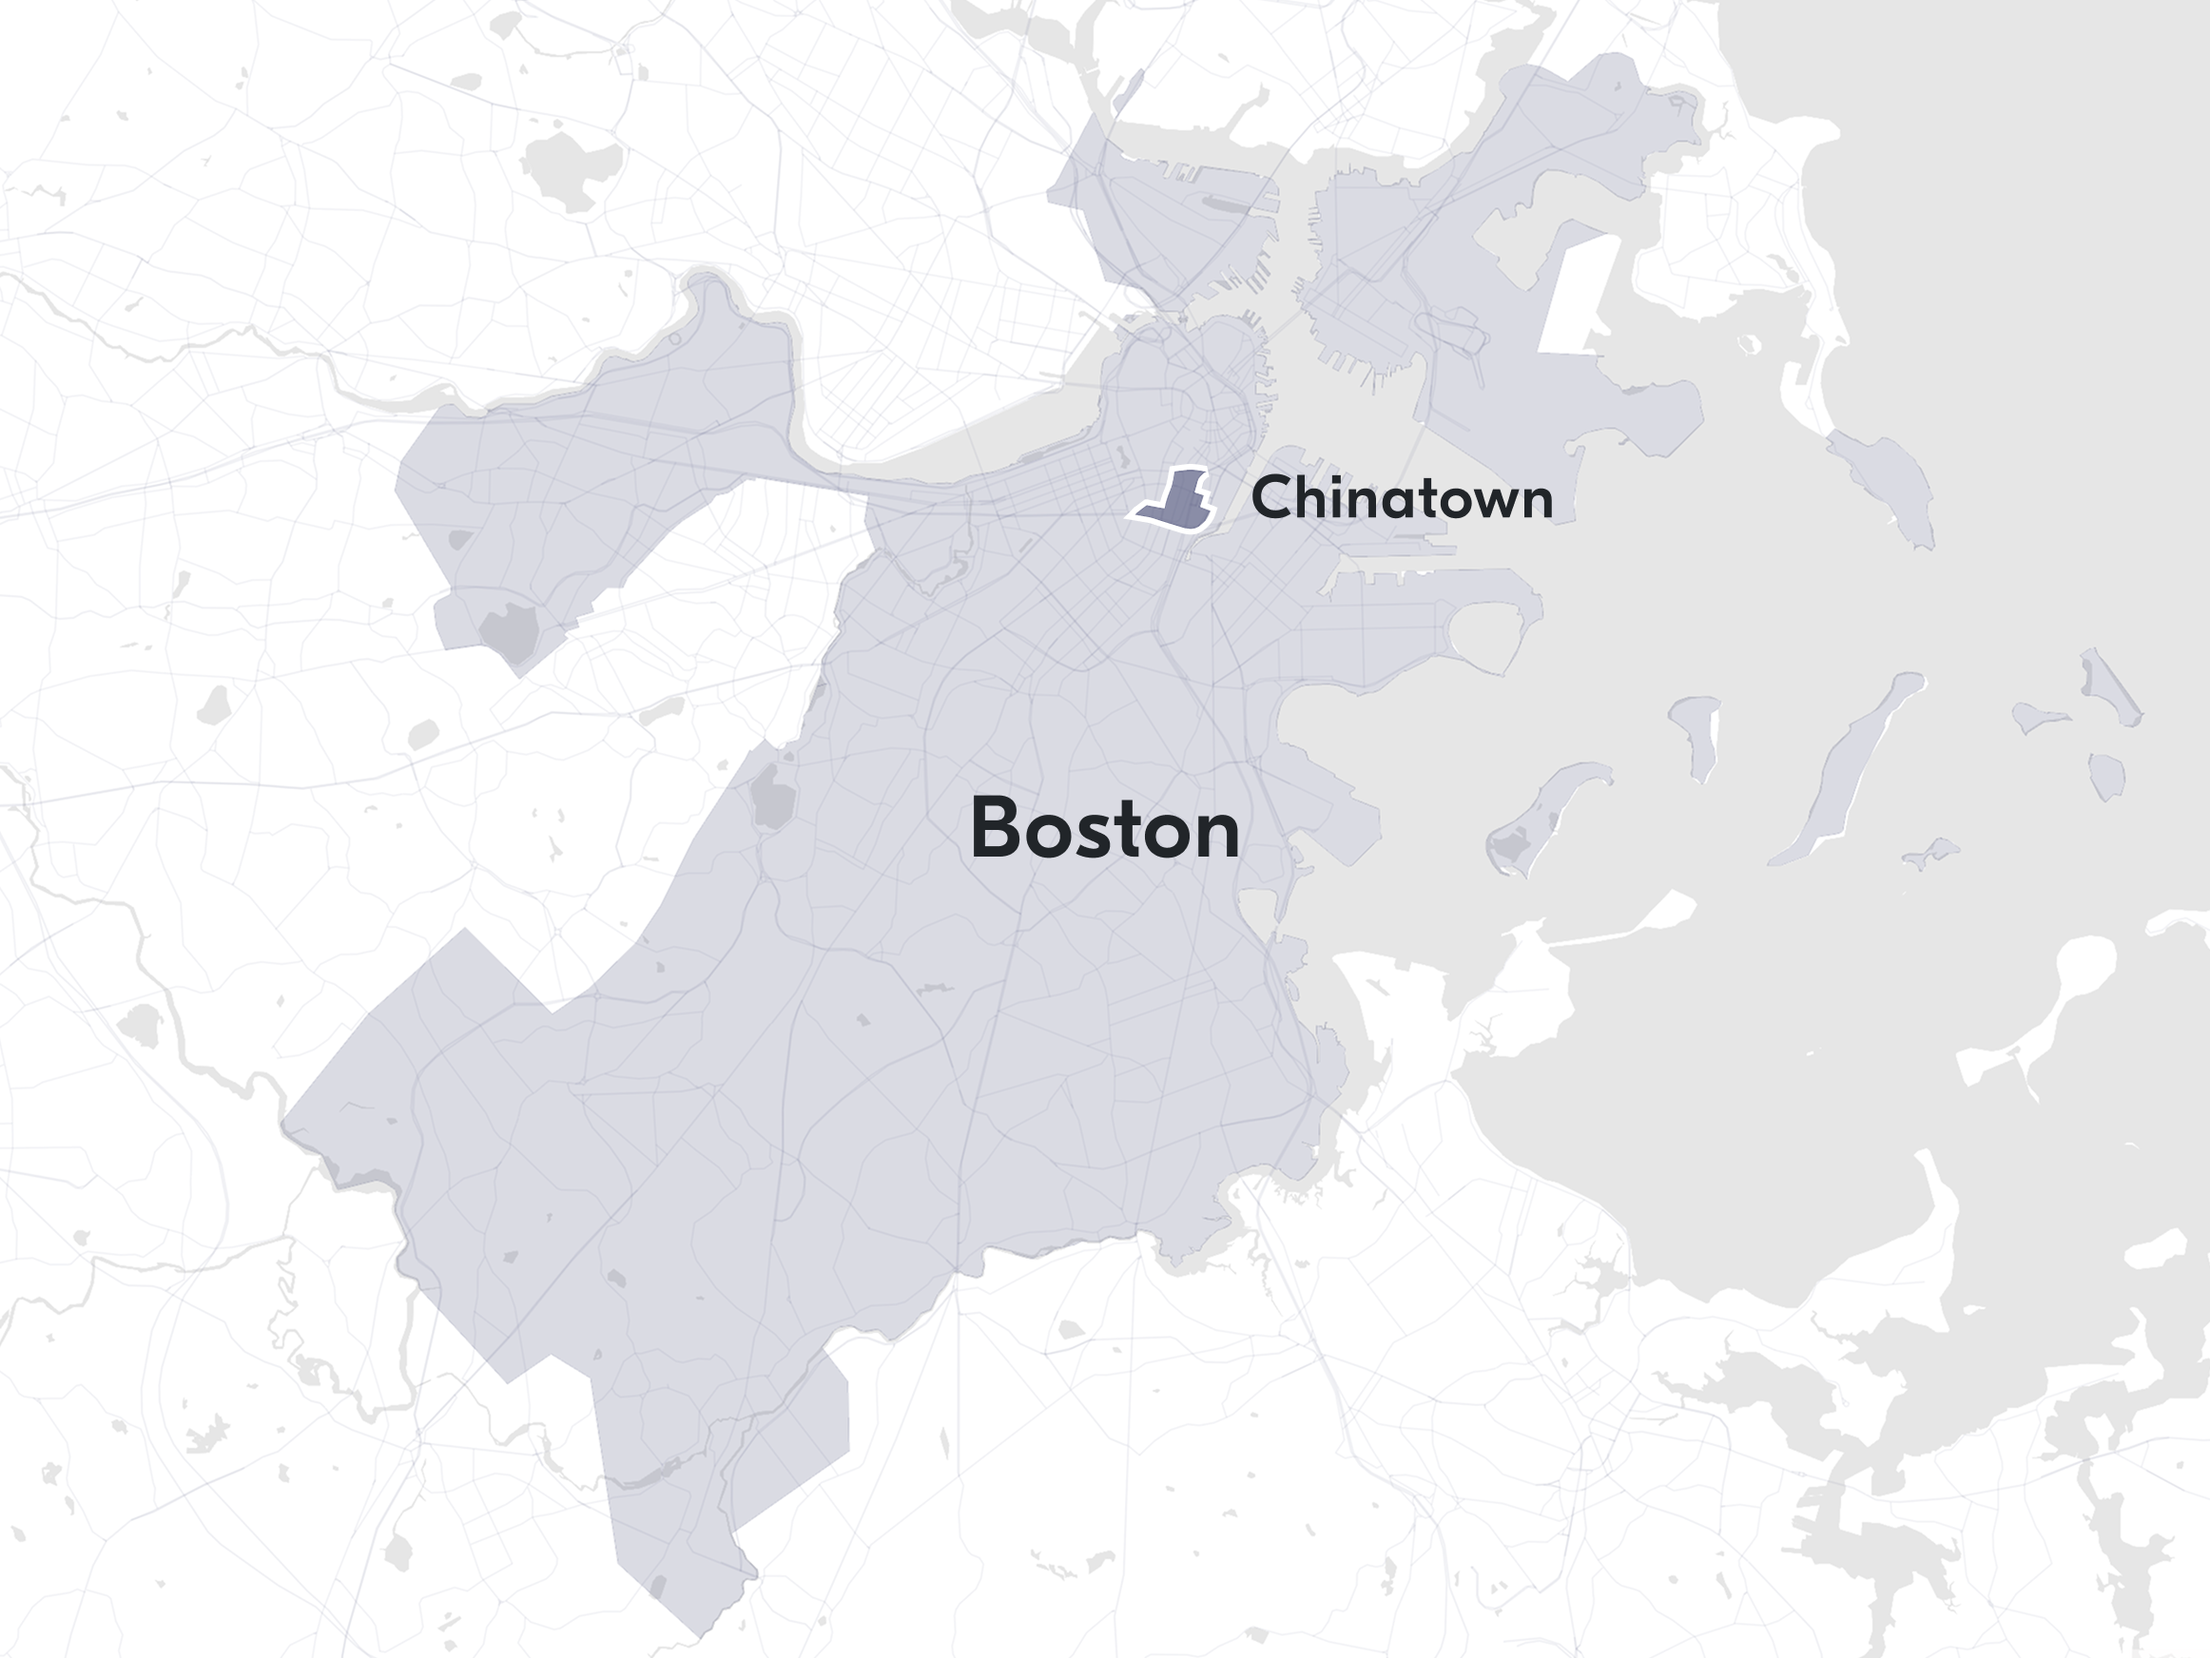
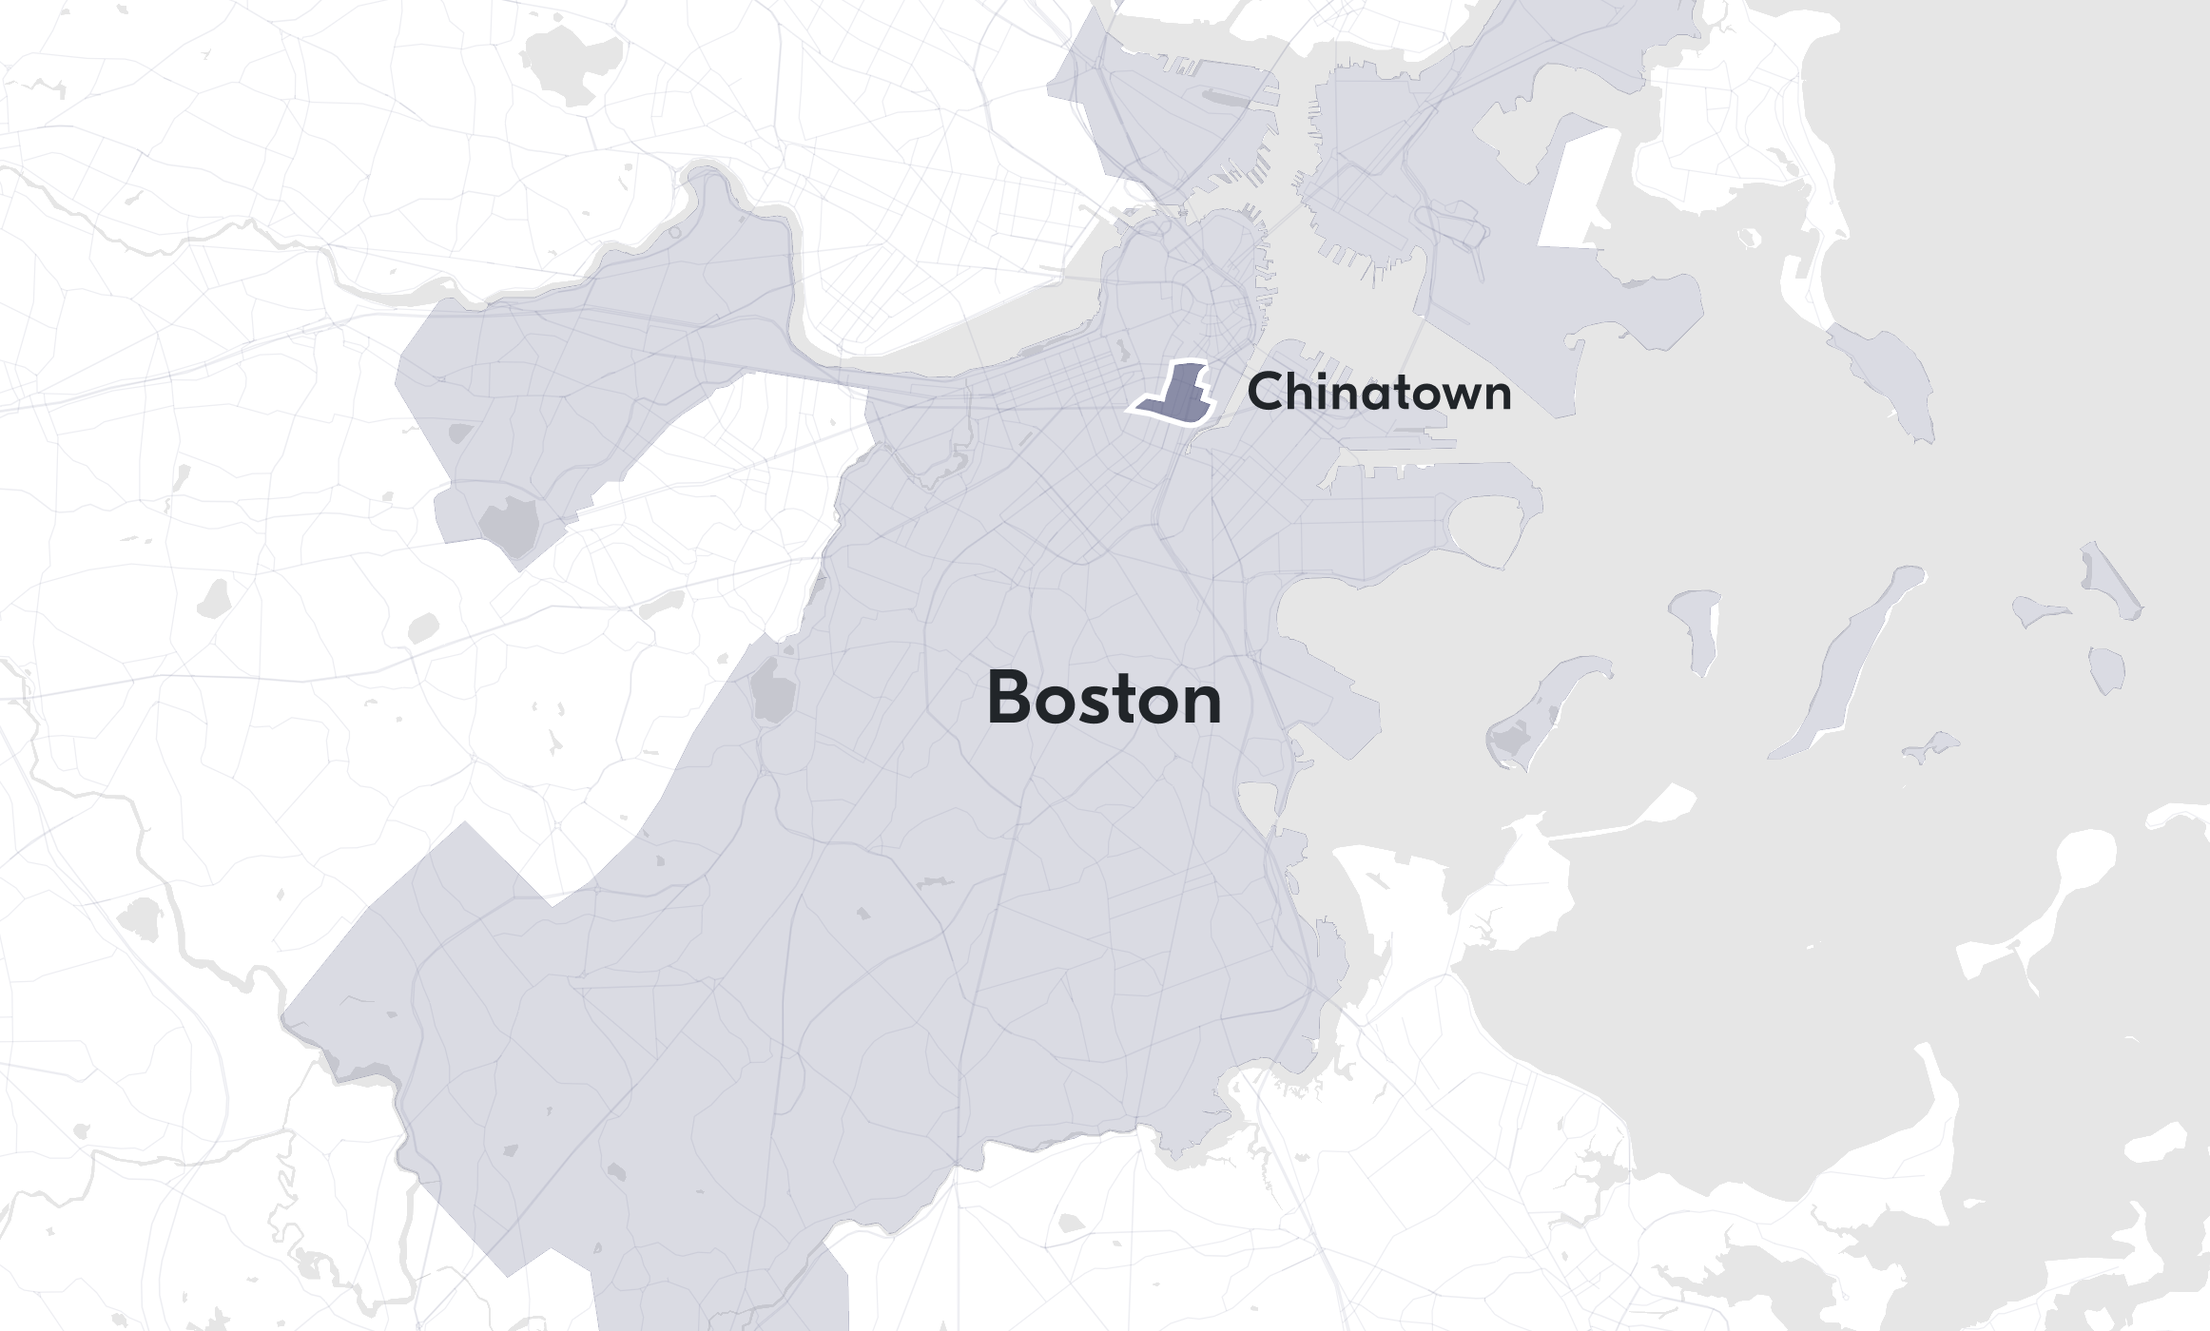
Chore(blog): add images, update styles

diff --git a/content/updates/research/beyond-eviction/index.md b/content/updates/research/beyond-eviction/index.md
@@ -8,15 +8,15 @@ contentcat: research
 featured: true
 in_index: true
 title: "Beyond eviction: Landlords, community, and housing exploitation in two immigrant Neighborhoods"
-date: 2026-10-31T18:49:04.271Z
+date: 2026-11-15T18:49:04.271Z
 postauthorname: The Eviction Lab
 postauthortitle: Princeton University
 authorpic: /images/bios/elab_thumb_sm.jpg
 description: lorem ipsum
 listSummary: lorem ipsum
-twImage: dallas-data-update.jpg
-image: dallas-data-update.jpg
-fbImage: dallas-data-update.jpg
+twImage: beyond-eviction.jpg
+image: beyond-eviction.jpg
+fbImage: beyond-eviction.jpg
 ---
 <style>
   .visual--mapbox {
@@ -29,7 +29,7 @@ ccounting for {{< smartlink "one-fifth of America's renters" "https://data.censu
 
 In a research article published in the journal {{< smartlink "City and Community" "https://journals.sagepub.com/doi/full/10.1177/15356841261452619#sec-5" >}}, we take a closer look at the neighborhoods where immigrants live and have historically depended on for support. Analyzing data between 2012 and 2016, we find that poor immigrant neighborhoods nationwide have an eviction rate 26 percent lower than similar non-immigrant neighborhoods. This is surprising because earlier research has shown that evictions are generally high in neighborhoods with concentrated {{< smartlink "disadvantage" "https://www.sciencedirect.com/science/article/pii/S0049089X16300977" >}} and {{< smartlink "poverty" "https://journals.sagepub.com/doi/full/10.1111/cico.12487" >}}, characteristics common in these communities. 
 
-[LINK TO PAPER]
+{{< researchpaperlink "Profit or Protection? Evictions and Housing Dynamics in Immigrant Neighborhoods" "https://journals.sagepub.com/doi/10.1177/15356841261452619?int.sj-abstract.similar-articles.8" "Lillian Leung, Renee Louis, Jasmine Rangel, and Matthew Desmond" "ctya_25_3.cover.png" >}}
 
 To understand what is behind this pattern, we visited two immigrant neighborhoods—Gulfton in Houston and Chinatown in Boston—and spoke with ninety renters, landlords, and community members about their housing experience. While low rents (and flexibility from property managers) partially explain low eviction rates in each neighborhood, these conditions result from very different housing dynamics. Immigrant renters in Gulfton maintain low rents by making trade-offs in housing conditions, while residents in Chinatown benefit from housing that co-ethnic landlords and community organizations have kept relatively affordable.
 
@@ -37,10 +37,10 @@ To understand what is behind this pattern, we visited two immigrant neighborhood
 <style>
   .bar-table-wrap { width: 100%; }
   .bar-table { width: 100%; border-collapse: collapse; margin: 2em 0 0.5em; font-family: inherit; }
-  .bar-table th { font-size: 1.6rem; font-weight: 500; text-align: left; vertical-align: bottom; padding: 0 1.2rem 1.2rem 0; color: #5a6270; line-height: 1.35; border-bottom: 2px solid #212529; }
+  .bar-table th { font-size: 1.6rem; font-weight: 500; text-align: left; vertical-align: bottom; padding: 0 1.2rem 1.2rem 0; color: #5a6270; line-height: 1.35; border-bottom: 2px solid #212529; font-family: GT-Eesti-Display-Medium, sans-serif; }
   .bar-table td { padding: 1rem 1.2rem 1rem 0; font-size: 1.8rem; color: #5a6270; white-space: nowrap; }
   .bar-table td.city { font-family: GT-Eesti-Display-Medium, sans-serif; font-size: 2rem; color: #212529; padding-top: 2.4rem; }
-  .bar-table td.area { padding-left: 2rem; white-space: normal; }
+  .bar-table td.area { padding-left: 2rem; white-space: normal; font-family: GT-Eesti-Display-Medium, sans-serif; }
   .bar-table tr.hl td .val { color: #212529; font-weight: 700; }
   .bar-table tr.group-end td { border-bottom: 1px solid #d5d8dc; padding-bottom: 32px; }
   .bar-table tfoot td { border-top: 2px solid #212529; font-size: 1.4rem; white-space: normal; padding-top: 1.2rem; }
@@ -48,7 +48,10 @@ To understand what is behind this pattern, we visited two immigrant neighborhood
   .bar-table .bar { display: inline-block; vertical-align: middle; width: 6rem; height: 1rem; border-radius: 3px; background: #EEF0F2; overflow: hidden; }
   .bar-table .bar i { display: block; height: 100%; border-radius: 3px; background: #9ea7b0; }
   .bar-table tr.hl .bar i { background: #e24000; }
+  .bar-table span.val { font-family: "Gotham A", "Gotham B", sans-serif; }
   @media (max-width: 767px) { .bar-table-wrap { overflow-x: auto; width: 100%; } .bar-table { min-width: 640px; } }
+  .bar-table tr.bottom-row td { padding-bottom: 3.2rem;}
+  
 </style>
 <div class="upscale124 mb-3">
 <div class="bar-table-wrap">
@@ -90,7 +93,7 @@ To understand what is behind this pattern, we visited two immigrant neighborhood
       <td><span class="val">57.8</span><span class="bar"><i style="width:95%"></i></span></td>
       <td><span class="val">$818</span><span class="bar"><i style="width:54%"></i></span></td>
     </tr>
-    <tr class="">
+    <tr class="bottom-row">
       <td class="area">Metrowide</td>
       <td><span class="val">3.8</span><span class="bar"><i style="width:95%"></i></span></td>
       <td><span class="val">7.3</span><span class="bar"><i style="width:95%"></i></span></td>
